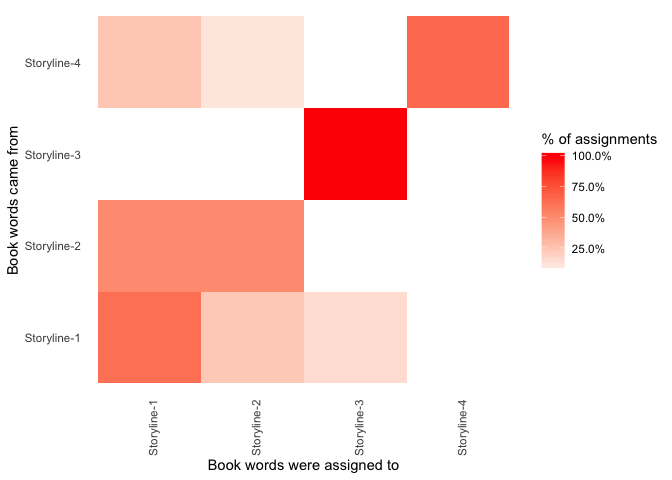
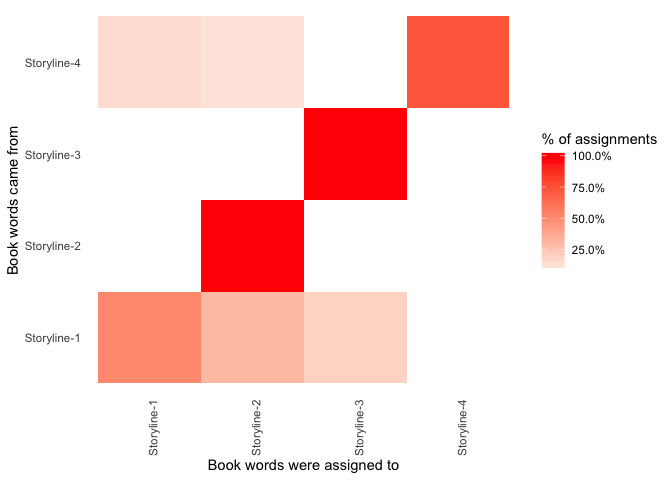
Image

diff --git a/_site/2020/08/04/4321-Blog.html b/_site/2020/08/04/4321-Blog.html
@@ -8,15 +8,13 @@
 <meta property="og:title" content="LDA: 4321" />
 <meta name="author" content="Nikolaj Bewer, Markus Loecher" />
 <meta property="og:locale" content="en_US" />
-<meta name="description" content="Table of Contents" />
-<meta property="og:description" content="Table of Contents" />
 <link rel="canonical" href="http://localhost:4000/2020/08/04/4321-Blog.html" />
 <meta property="og:url" content="http://localhost:4000/2020/08/04/4321-Blog.html" />
 <meta property="og:site_name" content="Code and Stats" />
 <meta property="og:type" content="article" />
 <meta property="article:published_time" content="2020-08-04T00:00:00+02:00" />
 <script type="application/ld+json">
-{"headline":"LDA: 4321","dateModified":"2020-08-04T00:00:00+02:00","datePublished":"2020-08-04T00:00:00+02:00","author":{"@type":"Person","name":"Nikolaj Bewer, Markus Loecher"},"mainEntityOfPage":{"@type":"WebPage","@id":"http://localhost:4000/2020/08/04/4321-Blog.html"},"description":"Table of Contents","@type":"BlogPosting","url":"http://localhost:4000/2020/08/04/4321-Blog.html","@context":"https://schema.org"}</script>
+{"headline":"LDA: 4321","dateModified":"2020-08-04T00:00:00+02:00","datePublished":"2020-08-04T00:00:00+02:00","author":{"@type":"Person","name":"Nikolaj Bewer, Markus Loecher"},"mainEntityOfPage":{"@type":"WebPage","@id":"http://localhost:4000/2020/08/04/4321-Blog.html"},"@type":"BlogPosting","url":"http://localhost:4000/2020/08/04/4321-Blog.html","@context":"https://schema.org"}</script>
 <!-- End Jekyll SEO tag -->
 <link rel="stylesheet" href="/assets/css/style.css"><link type="application/atom+xml" rel="alternate" href="http://localhost:4000/feed.xml" title="Code and Stats" />
 </head>
@@ -49,13 +47,16 @@
   </header>
 
   <div class="post-content e-content" itemprop="articleBody">
-    <h1 id="table-of-contents">Table of Contents</h1>
+    <p><img src="https://github.com/markusloecher/markusloecher.github.io/blob/master/assets/auster3.jpg" alt="Auster4321" /></p>
+
+<h1 id="table-of-contents">Table of Contents</h1>
 
 <ol>
   <li><a href="#libraries">Libraries</a></li>
   <li><a href="#introduction">Introduction</a></li>
   <li><a href="#data">Data</a></li>
   <li><a href="#lda-on-chapters">LDA on Chapters</a></li>
+  <li><a href="#mistaken-words">Mistaken words</a></li>
   <li><a href="#references">References</a></li>
 </ol>
 
@@ -71,6 +72,7 @@
 </span><span class="n">library</span><span class="p">(</span><span class="n">stringr</span><span class="p">)</span><span class="w">
 </span><span class="n">library</span><span class="p">(</span><span class="n">tidyr</span><span class="p">)</span><span class="w">
 </span><span class="n">library</span><span class="p">(</span><span class="n">scales</span><span class="p">)</span><span class="w">
+</span><span class="n">library</span><span class="p">(</span><span class="n">tibble</span><span class="p">)</span><span class="w">
 </span></code></pre></div></div>
 
 <p>Note: The idea (and some of the code) originates from Silge and
@@ -173,17 +175,22 @@ words are reduced to their word stem. We decided against these
 algorithmic processes, as information gets lost and the differences
 between the topics are subtle.</p>
 
-<div class="language-r highlighter-rouge"><div class="highlight"><pre class="highlight"><code><span class="n">df</span><span class="w"> </span><span class="o">=</span><span class="w"> </span><span class="n">tibble</span><span class="p">(</span><span class="n">document</span><span class="w"> </span><span class="o">=</span><span class="w"> </span><span class="m">0</span><span class="p">,</span><span class="w"> </span><span class="n">word</span><span class="w"> </span><span class="o">=</span><span class="w"> </span><span class="m">0</span><span class="p">)</span><span class="w"> </span><span class="c1"># Initialize</span><span class="w">
+<div class="language-r highlighter-rouge"><div class="highlight"><pre class="highlight"><code><span class="n">df</span><span class="w"> </span><span class="o">=</span><span class="w"> </span><span class="n">tibble</span><span class="p">(</span><span class="n">document</span><span class="w"> </span><span class="o">=</span><span class="w"> </span><span class="nf">as.character</span><span class="p">(</span><span class="m">0</span><span class="p">),</span><span class="w"> </span><span class="n">word</span><span class="w"> </span><span class="o">=</span><span class="w"> </span><span class="nf">as.character</span><span class="p">(</span><span class="m">0</span><span class="p">))</span><span class="w"> </span><span class="c1"># Initialize</span><span class="w">
+</span><span class="c1">#df1 = tibble(document = as.character("First"))</span><span class="w">
+</span><span class="c1">#df2 = tibble(word = as.character("First"))</span><span class="w">
 </span><span class="k">for</span><span class="w"> </span><span class="p">(</span><span class="n">j</span><span class="w"> </span><span class="k">in</span><span class="w"> </span><span class="m">1</span><span class="o">:</span><span class="m">4</span><span class="p">){</span><span class="w">
   </span><span class="k">for</span><span class="p">(</span><span class="n">i</span><span class="w"> </span><span class="k">in</span><span class="w"> </span><span class="m">1</span><span class="o">:</span><span class="nf">length</span><span class="p">(</span><span class="n">part1</span><span class="p">)){</span><span class="w">
     </span><span class="n">story1_1</span><span class="w"> </span><span class="o">=</span><span class="w"> </span><span class="n">auster</span><span class="p">[</span><span class="n">parts</span><span class="p">[</span><span class="n">seq</span><span class="p">(</span><span class="n">j</span><span class="p">,</span><span class="w"> </span><span class="nf">length</span><span class="p">(</span><span class="n">parts</span><span class="p">),</span><span class="m">4</span><span class="p">)][</span><span class="n">i</span><span class="p">]</span><span class="o">:</span><span class="p">(</span><span class="n">parts</span><span class="p">[</span><span class="n">seq</span><span class="p">(</span><span class="n">j</span><span class="m">+1</span><span class="p">,</span><span class="nf">length</span><span class="p">(</span><span class="n">parts</span><span class="p">),</span><span class="m">4</span><span class="p">)][</span><span class="n">i</span><span class="p">]</span><span class="m">-1</span><span class="p">)]</span><span class="w">
     </span><span class="n">story1_1</span><span class="w"> </span><span class="o">=</span><span class="w"> </span><span class="n">sapply</span><span class="p">(</span><span class="n">story1_1</span><span class="p">,</span><span class="w"> </span><span class="n">paste0</span><span class="p">,</span><span class="w"> </span><span class="n">collapse</span><span class="o">=</span><span class="s2">""</span><span class="p">)</span><span class="w">
     </span><span class="n">story1_1</span><span class="w"> </span><span class="o">=</span><span class="w"> </span><span class="n">paste</span><span class="p">(</span><span class="n">story1_1</span><span class="p">,</span><span class="w"> </span><span class="n">collapse</span><span class="w"> </span><span class="o">=</span><span class="w"> </span><span class="s2">" "</span><span class="p">)</span><span class="w">
-    </span><span class="n">story1_1</span><span class="w"> </span><span class="o">=</span><span class="w"> </span><span class="n">gsub</span><span class="p">(</span><span class="n">paste0</span><span class="p">(</span><span class="s2">"["</span><span class="p">,</span><span class="w"> </span><span class="nf">as.character</span><span class="p">(</span><span class="n">i</span><span class="p">),</span><span class="s1">'.'</span><span class="p">,</span><span class="w"> </span><span class="s2">"1"</span><span class="p">,</span><span class="w"> </span><span class="s2">"2"</span><span class="p">,</span><span class="w"> </span><span class="s2">"3"</span><span class="p">,</span><span class="w"> </span><span class="s2">"4"</span><span class="p">,</span><span class="s2">"."</span><span class="p">,</span><span class="s2">","</span><span class="p">,</span><span class="w"> </span><span class="s2">"("</span><span class="p">,</span><span class="w"> </span><span class="s2">")"</span><span class="p">,</span><span class="w"> </span><span class="s2">"*"</span><span class="p">,</span><span class="w"> </span><span class="s2">":"</span><span class="p">,</span><span class="w"> </span><span class="s2">"]"</span><span class="p">),</span><span class="w"> </span><span class="s2">""</span><span class="p">,</span><span class="w"> </span><span class="n">story1_1</span><span class="p">)</span><span class="w">
+    </span><span class="n">story1_1</span><span class="w"> </span><span class="o">=</span><span class="w"> </span><span class="n">gsub</span><span class="p">(</span><span class="n">paste0</span><span class="p">(</span><span class="s2">"["</span><span class="p">,</span><span class="w"> </span><span class="nf">as.character</span><span class="p">(</span><span class="n">i</span><span class="p">),</span><span class="s1">'.'</span><span class="p">,</span><span class="w"> </span><span class="s2">"1"</span><span class="p">,</span><span class="w"> </span><span class="s2">"2"</span><span class="p">,</span><span class="w"> </span><span class="s2">"3"</span><span class="p">,</span><span class="w"> </span><span class="s2">"4"</span><span class="p">,</span><span class="s2">","</span><span class="p">,</span><span class="w"> </span><span class="s2">"("</span><span class="p">,</span><span class="w"> </span><span class="s2">")"</span><span class="p">,</span><span class="w"> </span><span class="s2">"*"</span><span class="p">,</span><span class="w"> </span><span class="s2">":"</span><span class="p">,</span><span class="w"> </span><span class="s2">"]"</span><span class="w"> </span><span class="p">),</span><span class="w"> </span><span class="s2">""</span><span class="p">,</span><span class="w"> </span><span class="n">story1_1</span><span class="p">)</span><span class="w">
     </span><span class="n">story1_1_words</span><span class="w"> </span><span class="o">=</span><span class="w"> </span><span class="n">strsplit</span><span class="p">(</span><span class="n">story1_1</span><span class="p">,</span><span class="w"> </span><span class="n">split</span><span class="w"> </span><span class="o">=</span><span class="w"> </span><span class="s2">" "</span><span class="p">)</span><span class="w">
     </span><span class="n">df</span><span class="w"> </span><span class="o">=</span><span class="w"> </span><span class="n">df</span><span class="w"> </span><span class="o">%&gt;%</span><span class="w"> </span><span class="n">add_row</span><span class="p">(</span><span class="n">document</span><span class="w"> </span><span class="o">=</span><span class="w"> </span><span class="n">paste0</span><span class="p">(</span><span class="s2">"Storyline-"</span><span class="p">,</span><span class="w"> </span><span class="n">j</span><span class="p">,</span><span class="w"> </span><span class="s2">"_Chapter-"</span><span class="p">,</span><span class="w"> </span><span class="n">i</span><span class="p">),</span><span class="w"> </span><span class="n">word</span><span class="w"> </span><span class="o">=</span><span class="w"> </span><span class="n">unlist</span><span class="p">(</span><span class="n">story1_1_words</span><span class="p">))</span><span class="w">
+    </span><span class="c1">#df1 = df1 %&gt;% add_row(document = paste0("Storyline-", j, "_Chapter-", i))</span><span class="w">
+    </span><span class="c1">#df2 = df2 %&gt;% add_row(word = unlist(story1_1_words))</span><span class="w">
   </span><span class="p">}</span><span class="w">
 </span><span class="p">}</span><span class="w">
+</span><span class="c1">#df = bind_rows(df1, df2)</span><span class="w">
 </span><span class="n">df</span><span class="w"> </span><span class="o">=</span><span class="w"> </span><span class="n">df</span><span class="p">[</span><span class="m">-1</span><span class="p">,]</span><span class="w">
 </span><span class="n">df</span><span class="o">$</span><span class="n">word</span><span class="w"> </span><span class="o">=</span><span class="w"> </span><span class="n">tolower</span><span class="p">(</span><span class="n">df</span><span class="o">$</span><span class="n">word</span><span class="p">)</span><span class="w">
 </span></code></pre></div></div>
@@ -496,7 +503,7 @@ to a topic.</p>
 
 <div class="language-r highlighter-rouge"><div class="highlight"><pre class="highlight"><code><span class="n">book_topics</span><span class="w"> </span><span class="o">=</span><span class="w"> </span><span class="n">chapter_classifications</span><span class="w"> </span><span class="o">%&gt;%</span><span class="w">
   </span><span class="n">count</span><span class="p">(</span><span class="n">title</span><span class="p">,</span><span class="w"> </span><span class="n">topic</span><span class="p">)</span><span class="w"> </span><span class="o">%&gt;%</span><span class="w">
-  </span><span class="n">group_by</span><span class="p">(</span><span class="n">topic</span><span class="p">)</span><span class="w"> </span><span class="o">%&gt;%</span><span class="w">
+  </span><span class="n">group_by</span><span class="p">(</span><span class="n">title</span><span class="p">)</span><span class="w"> </span><span class="o">%&gt;%</span><span class="w">
   </span><span class="n">top_n</span><span class="p">(</span><span class="m">1</span><span class="p">,</span><span class="w"> </span><span class="n">n</span><span class="p">)</span><span class="w"> </span><span class="o">%&gt;%</span><span class="w">
   </span><span class="n">ungroup</span><span class="p">()</span><span class="w"> </span><span class="o">%&gt;%</span><span class="w">
   </span><span class="n">transmute</span><span class="p">(</span><span class="n">consensus</span><span class="w"> </span><span class="o">=</span><span class="w"> </span><span class="n">title</span><span class="p">,</span><span class="w"> </span><span class="n">topic</span><span class="p">)</span><span class="w">
@@ -536,11 +543,49 @@ clarification using <code class="highlighter-rouge">ggplot</code>.</p>
 
 <p><img src="/assets/unnamed-chunk-29-1.png" alt="" /></p>
 
-<p>We can see that all words that came from Storyline-3 were also correctly
-classified to that storyline. Words from Storyline-1 and Storyline-4
-were mainly correctly classified, but carried some minsinterpretation as
-well. Storyline-2 was equally split between the first and second
-storyline.</p>
+<p>We can see that all words that came from Storyline-3 and Storyline-2
+were correctly classified to their storyline. Words from Storyline-1 and
+Storyline-4 were mainly correctly classified, but carried some
+minsinterpretation as well. Thus, we may ask what the misinterpretations
+were.</p>
+
+<h2 id="mistaken-words">Mistaken words</h2>
+
+<p>We only expect to see misinterpretations in Storyline-1 and Storyline-4.
+By comparing the title (true chapter) with the consensus (classified
+chapter) we can spot differences.</p>
+
+<div class="language-r highlighter-rouge"><div class="highlight"><pre class="highlight"><code><span class="n">mistakes</span><span class="w"> </span><span class="o">=</span><span class="w"> </span><span class="n">assignments</span><span class="w"> </span><span class="o">%&gt;%</span><span class="w">
+  </span><span class="n">filter</span><span class="p">(</span><span class="n">title</span><span class="w"> </span><span class="o">!=</span><span class="w"> </span><span class="n">consensus</span><span class="p">)</span><span class="w">
+
+</span><span class="n">mistakes</span><span class="w"> </span><span class="o">=</span><span class="w"> </span><span class="n">mistakes</span><span class="w"> </span><span class="o">%&gt;%</span><span class="w">
+    </span><span class="n">count</span><span class="p">(</span><span class="n">title</span><span class="p">,</span><span class="w"> </span><span class="n">consensus</span><span class="p">,</span><span class="w"> </span><span class="n">term</span><span class="p">,</span><span class="w"> </span><span class="n">wt</span><span class="w"> </span><span class="o">=</span><span class="w"> </span><span class="n">count</span><span class="p">)</span><span class="w"> </span><span class="o">%&gt;%</span><span class="w">
+    </span><span class="n">ungroup</span><span class="p">()</span><span class="w"> </span><span class="o">%&gt;%</span><span class="w">
+    </span><span class="n">arrange</span><span class="p">(</span><span class="n">desc</span><span class="p">(</span><span class="n">n</span><span class="p">))</span><span class="w">
+
+</span><span class="n">mistakes</span><span class="w">
+</span></code></pre></div></div>
+
+<div class="highlighter-rouge"><div class="highlight"><pre class="highlight"><code>## # A tibble: 14,714 x 4
+##    title       consensus   term         n
+##    &lt;chr&gt;       &lt;chr&gt;       &lt;chr&gt;    &lt;dbl&gt;
+##  1 Storyline-1 Storyline-2 ferguson   278
+##  2 Storyline-4 Storyline-1 ferguson   221
+##  3 Storyline-1 Storyline-3 ferguson   190
+##  4 Storyline-4 Storyline-2 ferguson   164
+##  5 Storyline-1 Storyline-2 amy         95
+##  6 Storyline-1 Storyline-3 mother      80
+##  7 Storyline-1 Storyline-2 mother      71
+##  8 Storyline-4 Storyline-2 mother      66
+##  9 Storyline-1 Storyline-2 father      64
+## 10 Storyline-4 Storyline-1 father      62
+## # … with 14,704 more rows
+</code></pre></div></div>
+
+<p>The main character <em>ferguson</em> was the character most often
+misclassified, which does not come as a surprise, as he spans across all
+storylines. Other often wrongly classified characters are the <em>mother</em>
+and <em>father</em>, as well as <em>amy</em>.</p>
 
 <h1 id="references">References</h1>
 

diff --git a/_posts/2020-08-04-4321-Blog.md b/_posts/2020-08-04-4321-Blog.md
@@ -12,6 +12,8 @@ output:
   html_document: default
 ---
 
+![Auster4321](https://github.com/markusloecher/markusloecher.github.io/blob/master/assets/auster3.jpg)
+
 Table of Contents
 =================
 
@@ -19,7 +21,8 @@ Table of Contents
 2.  [Introduction](#introduction)
 3.  [Data](#data)
 4.  [LDA on Chapters](#lda-on-chapters)
-5.  [References](#references)
+5.  [Mistaken words](#mistaken-words)
+6.  [References](#references)
 
 Libraries
 =========
@@ -35,6 +38,7 @@ library(dplyr)
 library(stringr)
 library(tidyr)
 library(scales)
+library(tibble)
 ```
 
 Note: The idea (and some of the code) originates from Silge and
@@ -143,17 +147,22 @@ algorithmic processes, as information gets lost and the differences
 between the topics are subtle.
 
 ``` r
-df = tibble(document = 0, word = 0) # Initialize
+df = tibble(document = as.character(0), word = as.character(0)) # Initialize
+#df1 = tibble(document = as.character("First"))
+#df2 = tibble(word = as.character("First"))
 for (j in 1:4){
   for(i in 1:length(part1)){
     story1_1 = auster[parts[seq(j, length(parts),4)][i]:(parts[seq(j+1,length(parts),4)][i]-1)]
     story1_1 = sapply(story1_1, paste0, collapse="")
     story1_1 = paste(story1_1, collapse = " ")
-    story1_1 = gsub(paste0("[", as.character(i),'.', "1", "2", "3", "4",".",",", "(", ")", "*", ":", "]"), "", story1_1)
+    story1_1 = gsub(paste0("[", as.character(i),'.', "1", "2", "3", "4",",", "(", ")", "*", ":", "]" ), "", story1_1)
     story1_1_words = strsplit(story1_1, split = " ")
     df = df %>% add_row(document = paste0("Storyline-", j, "_Chapter-", i), word = unlist(story1_1_words))
+    #df1 = df1 %>% add_row(document = paste0("Storyline-", j, "_Chapter-", i))
+    #df2 = df2 %>% add_row(word = unlist(story1_1_words))
   }
 }
+#df = bind_rows(df1, df2)
 df = df[-1,]
 df$word = tolower(df$word)
 ```
@@ -484,7 +493,7 @@ chapter_classifications = chapters_gamma %>%
 ``` r
 book_topics = chapter_classifications %>%
   count(title, topic) %>%
-  group_by(topic) %>%
+  group_by(title) %>%
   top_n(1, n) %>%
   ungroup() %>%
   transmute(consensus = title, topic)
@@ -527,11 +536,50 @@ assignments %>%
 
 ![](/assets/unnamed-chunk-29-1.png)
 
-We can see that all words that came from Storyline-3 were also correctly
-classified to that storyline. Words from Storyline-1 and Storyline-4
-were mainly correctly classified, but carried some minsinterpretation as
-well. Storyline-2 was equally split between the first and second
-storyline.
+We can see that all words that came from Storyline-3 and Storyline-2
+were correctly classified to their storyline. Words from Storyline-1 and
+Storyline-4 were mainly correctly classified, but carried some
+minsinterpretation as well. Thus, we may ask what the misinterpretations
+were.
+
+Mistaken words
+--------------
+
+We only expect to see misinterpretations in Storyline-1 and Storyline-4.
+By comparing the title (true chapter) with the consensus (classified
+chapter) we can spot differences.
+
+``` r
+mistakes = assignments %>%
+  filter(title != consensus)
+
+mistakes = mistakes %>%
+    count(title, consensus, term, wt = count) %>%
+    ungroup() %>%
+    arrange(desc(n))
+
+mistakes
+```
+
+    ## # A tibble: 14,714 x 4
+    ##    title       consensus   term         n
+    ##    <chr>       <chr>       <chr>    <dbl>
+    ##  1 Storyline-1 Storyline-2 ferguson   278
+    ##  2 Storyline-4 Storyline-1 ferguson   221
+    ##  3 Storyline-1 Storyline-3 ferguson   190
+    ##  4 Storyline-4 Storyline-2 ferguson   164
+    ##  5 Storyline-1 Storyline-2 amy         95
+    ##  6 Storyline-1 Storyline-3 mother      80
+    ##  7 Storyline-1 Storyline-2 mother      71
+    ##  8 Storyline-4 Storyline-2 mother      66
+    ##  9 Storyline-1 Storyline-2 father      64
+    ## 10 Storyline-4 Storyline-1 father      62
+    ## # … with 14,704 more rows
+
+The main character *ferguson* was the character most often
+misclassified, which does not come as a surprise, as he spans across all
+storylines. Other often wrongly classified characters are the *mother*
+and *father*, as well as *amy*.
 
 References
 ==========
